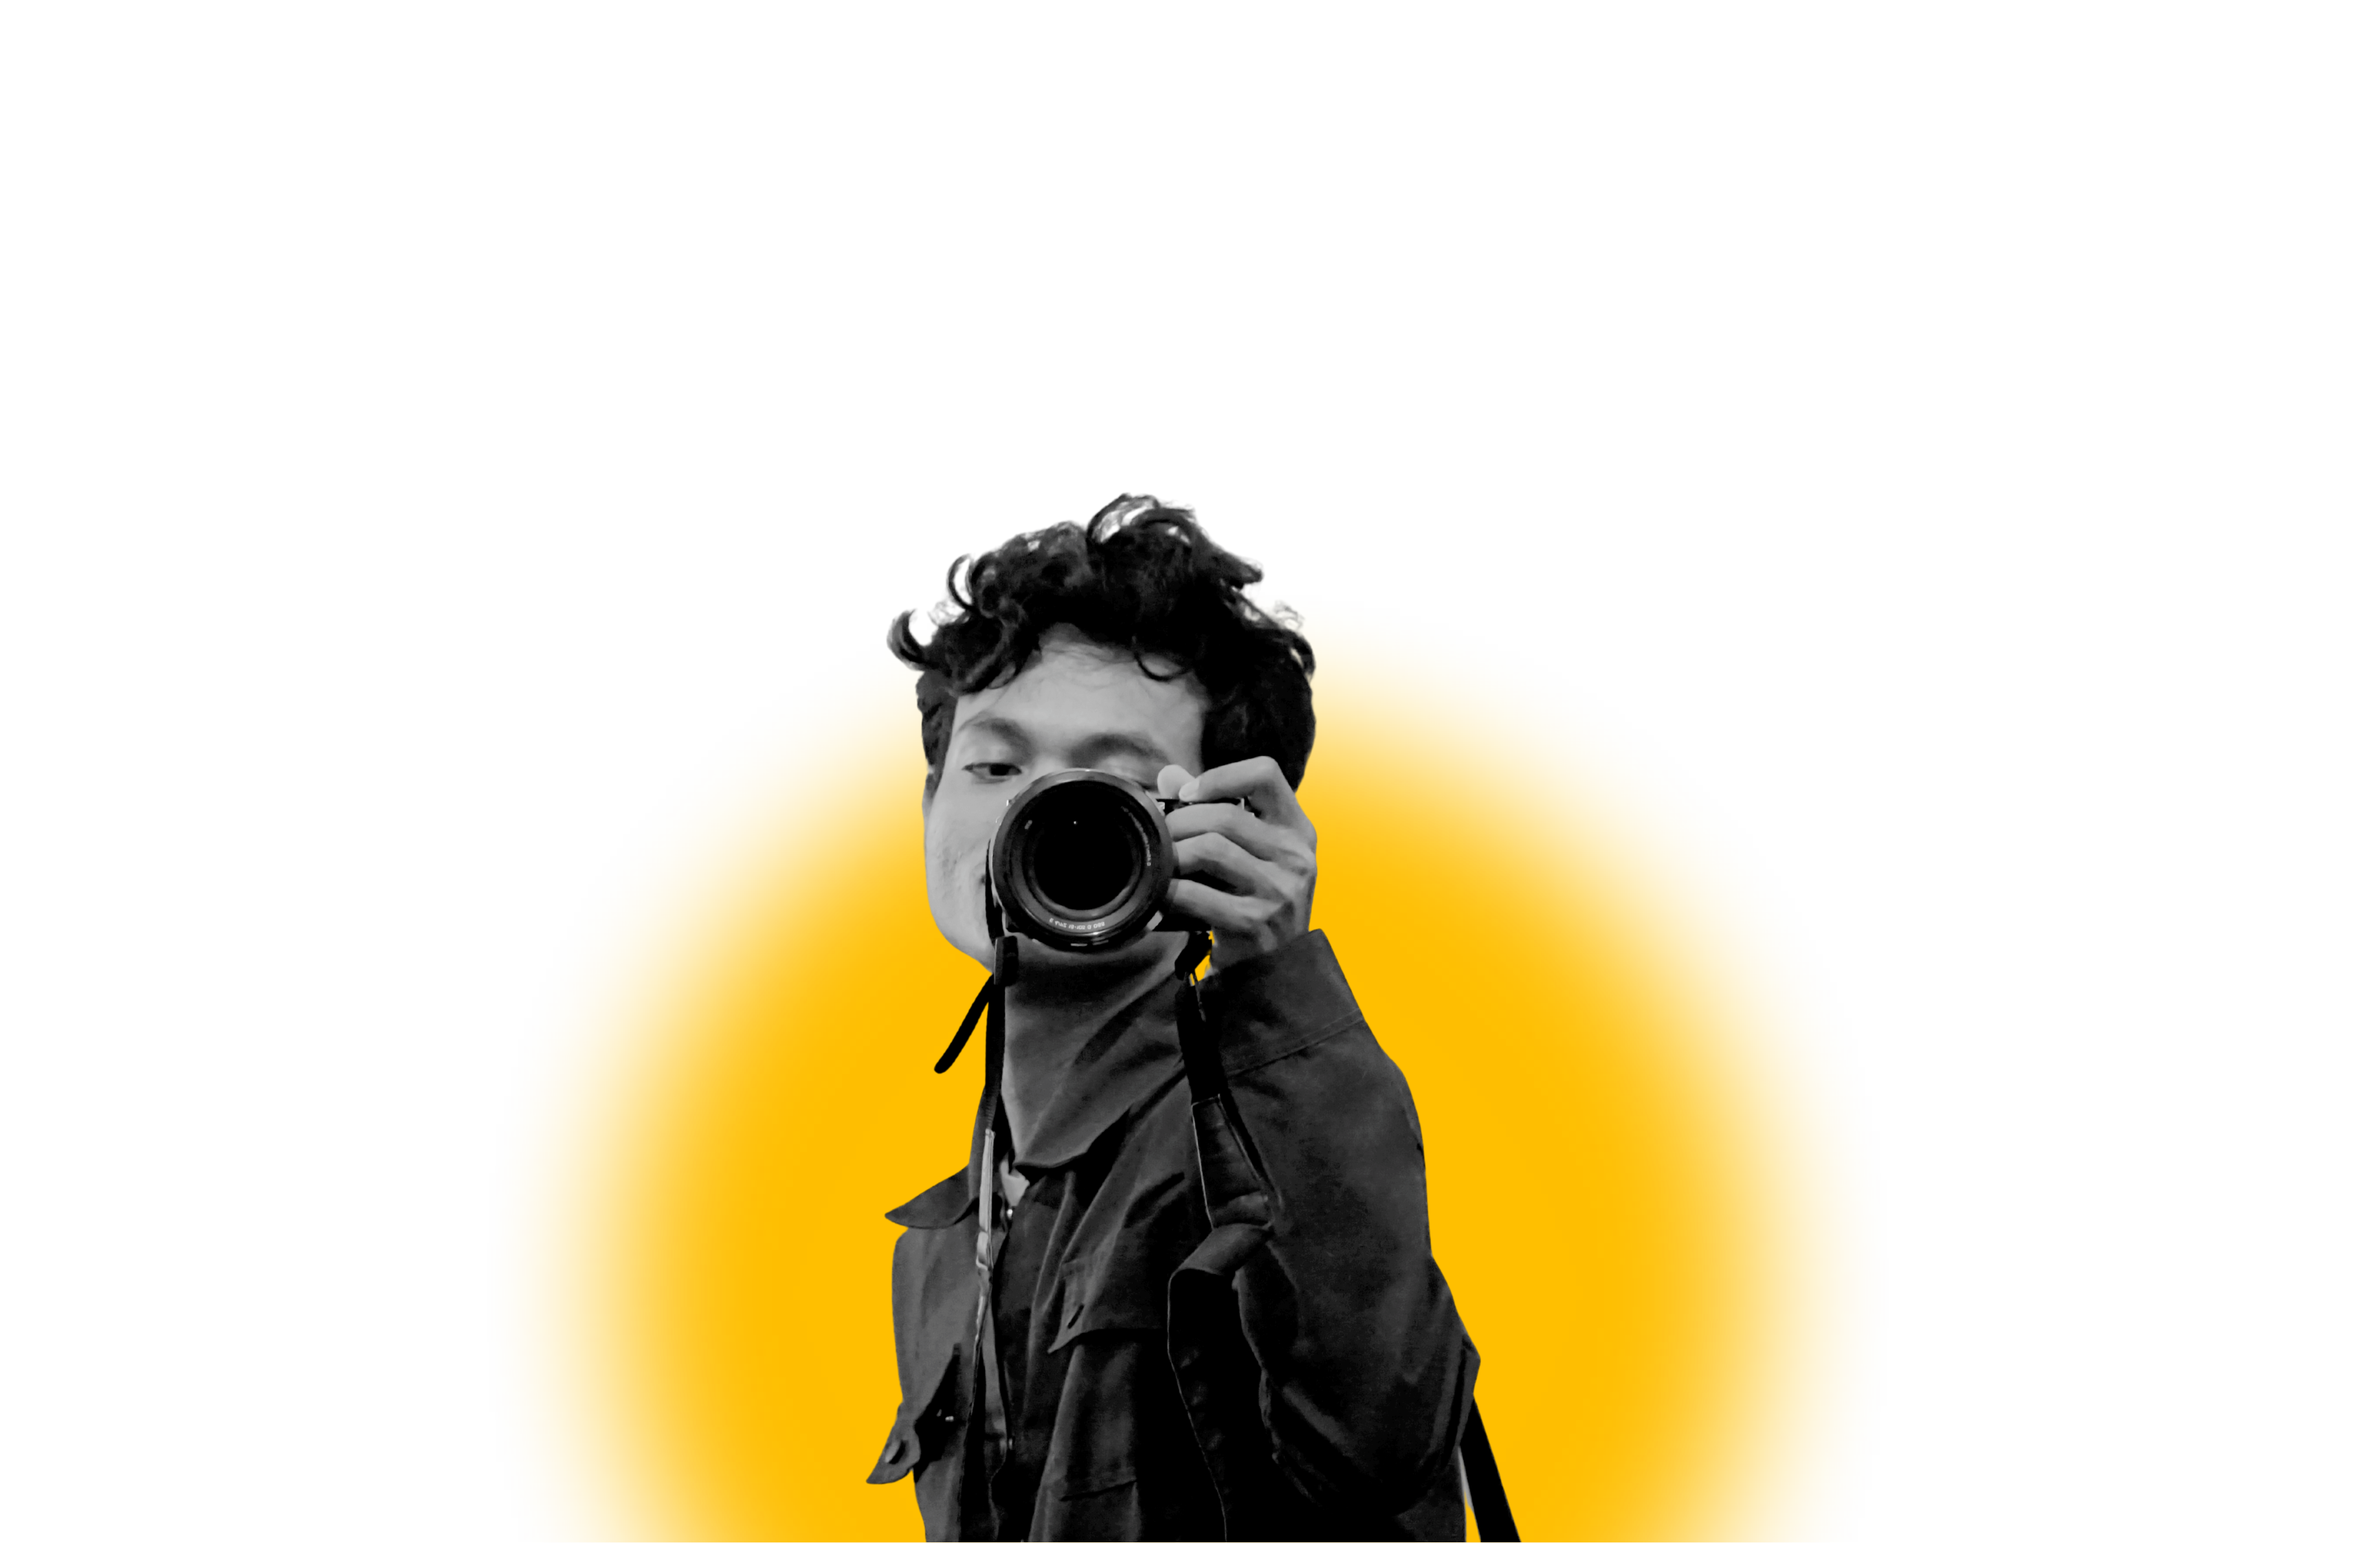
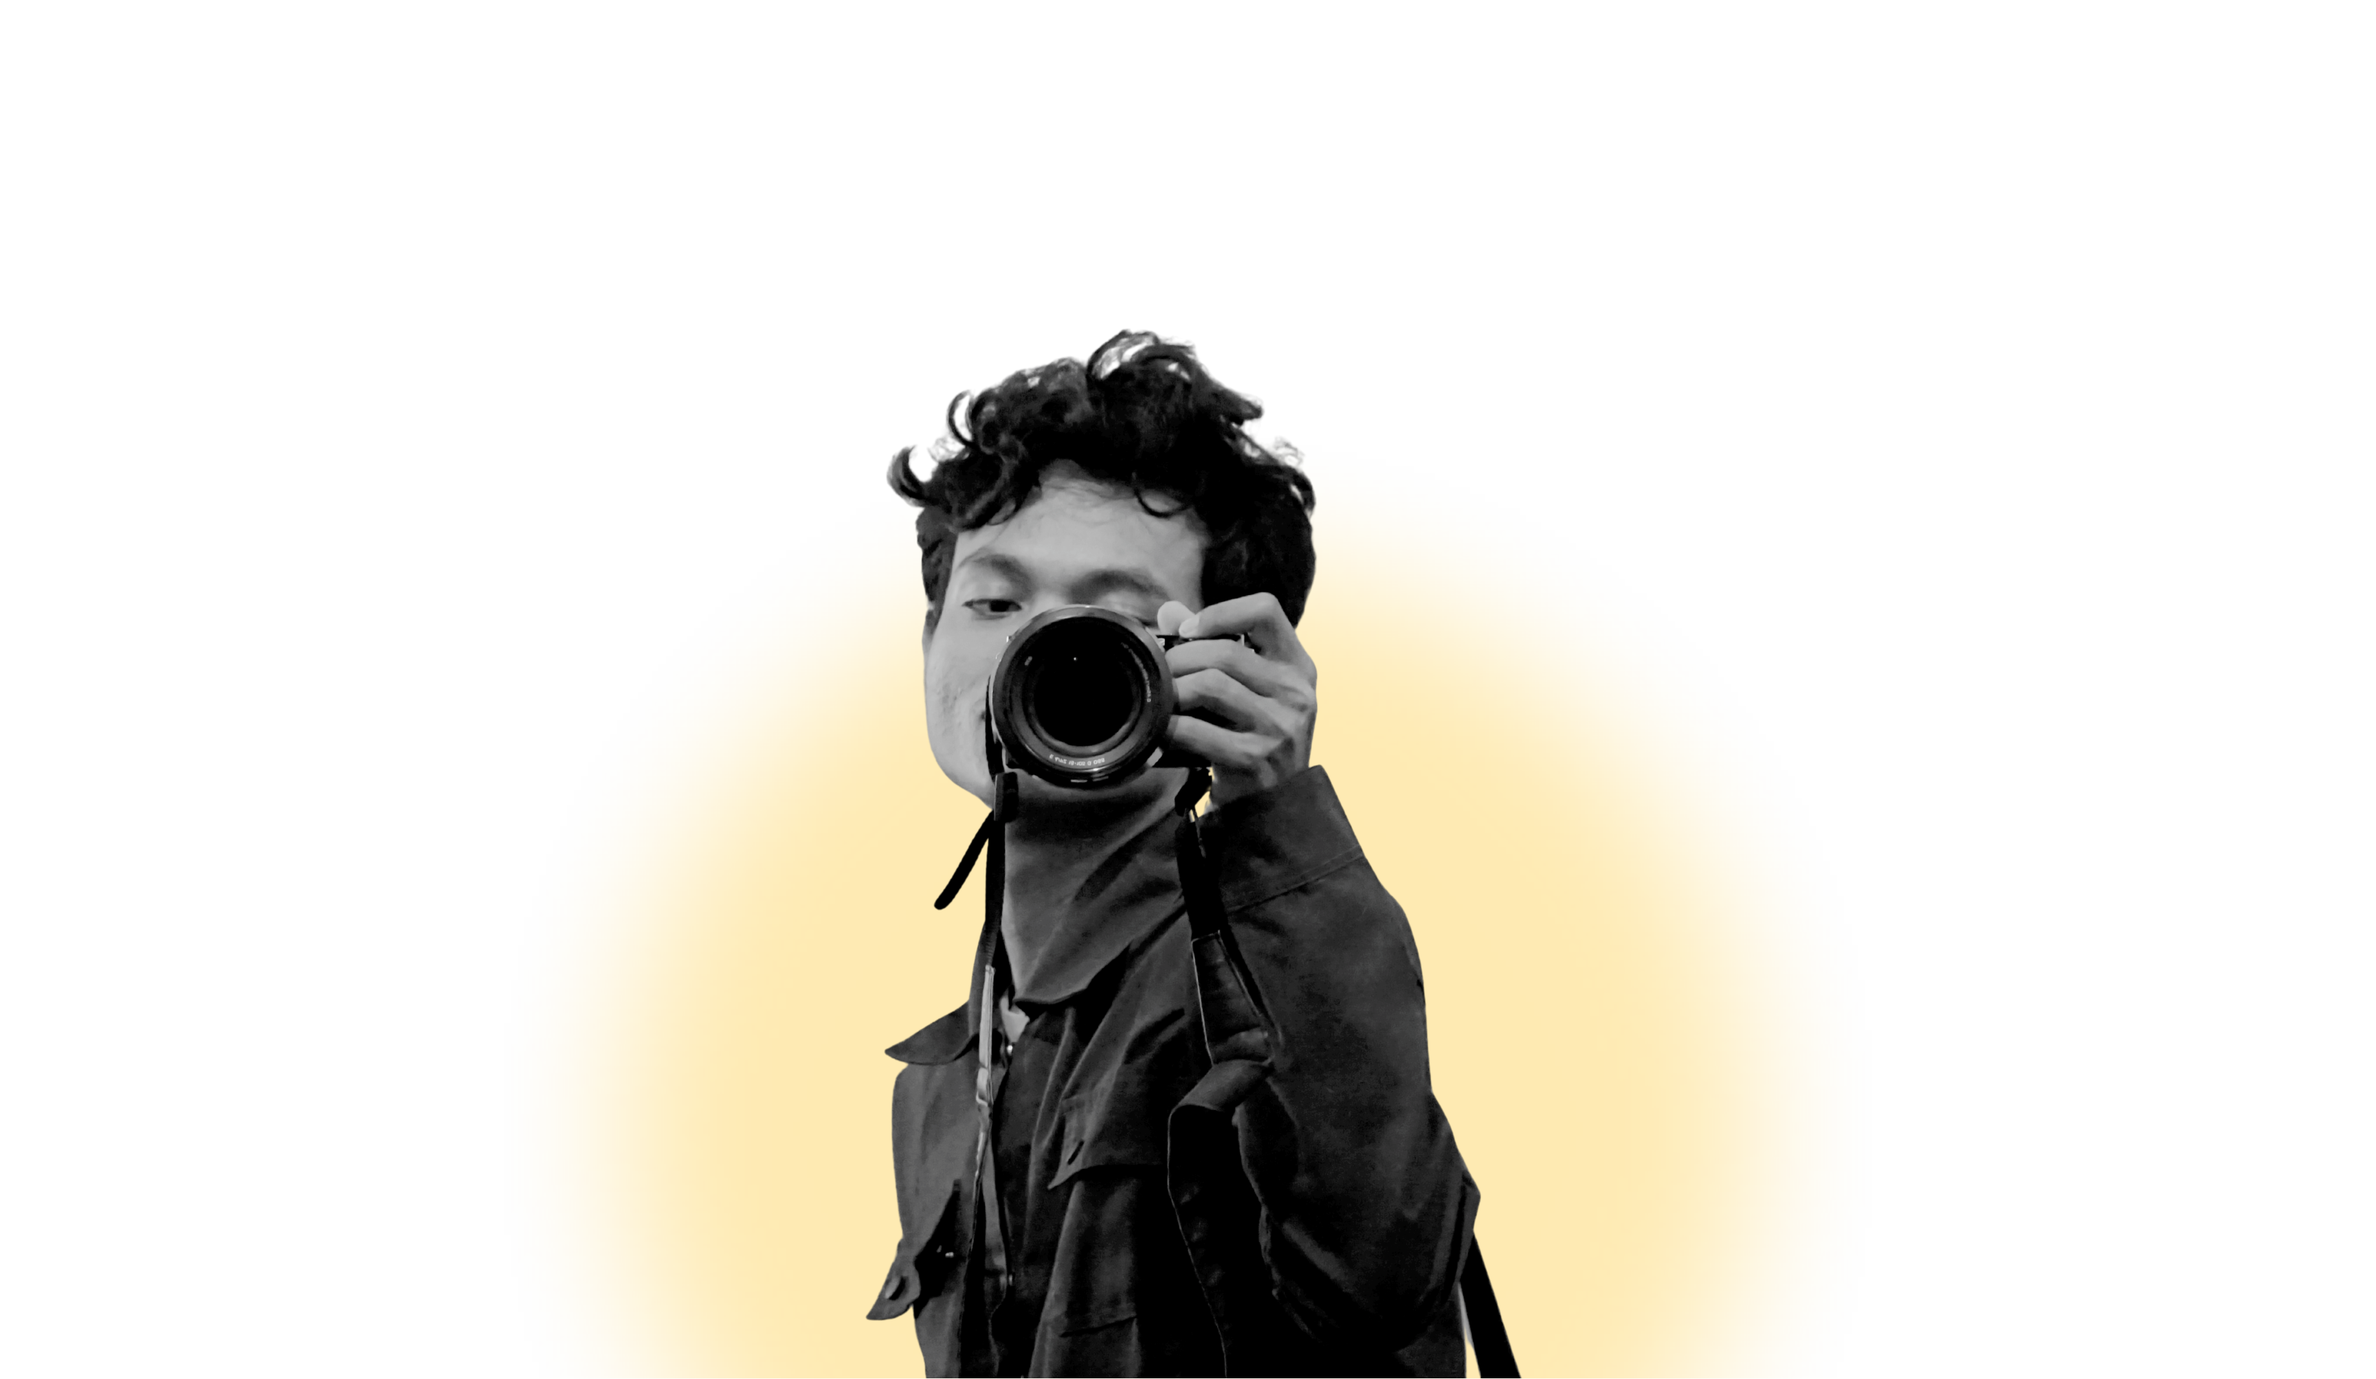
update

Changed region(s): [[0.2187, 0.2162, 0.781, 1.0], [0.5311, 0.865, 0.5623, 0.9268]]

diff --git a/style.css b/style.css
@@ -360,7 +360,7 @@ header {
 
 .hero-left,
 .hero-right {
-  color: #000000;
+  color: #ffae00;
   position: relative;
   z-index: 1;
 }
@@ -376,9 +376,9 @@ header {
 .hero-bottom {
   position: relative;
   z-index: 2;
-  background: rgba(255, 255, 255, 0.1);
+  background: rgba(255, 255, 255, 0.055);
   backdrop-filter: blur(10px);
-  border-top: 1px solid rgba(255, 255, 255, 0.2);
+  border-top: 1px solid rgba(255, 255, 255, 0.116);
   padding: 30px 0;
   margin-top: auto;
 }
@@ -409,9 +409,9 @@ header {
   transform: translateX(-50%);
   width: 280px;
   height: 80px;
-  background: rgba(255, 255, 255, 0.15);
+  background: rgba(255, 255, 255, 0.041);
   backdrop-filter: blur(5px);
-  border: 1px solid rgba(255, 255, 255, 0.2);
+  border: 1px solid rgba(255, 255, 255, 0.123);
   margin-bottom: 2cm;
   border-radius: 8px;
 }
